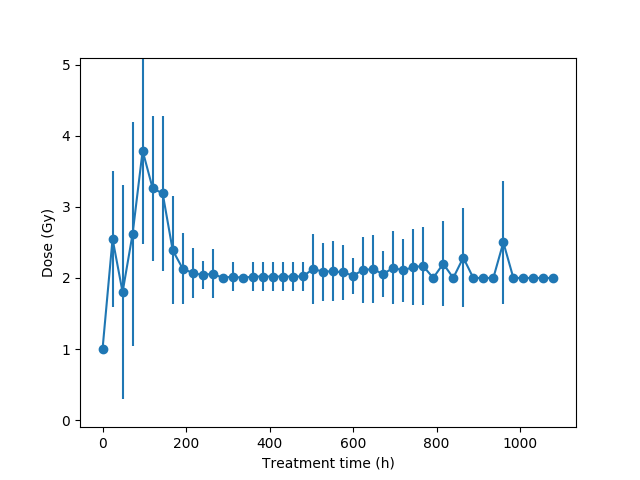
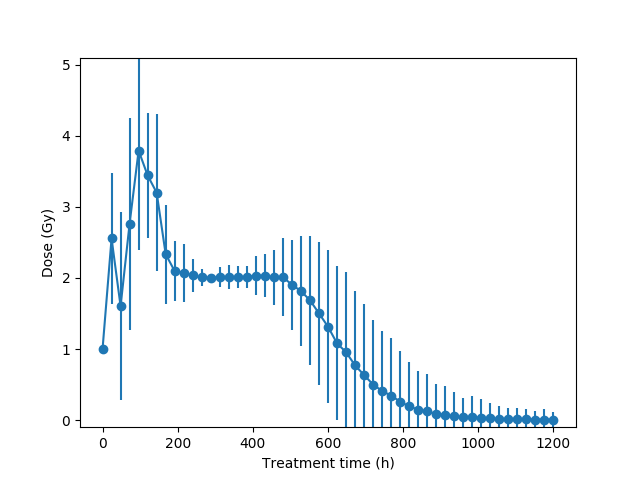
eval

Changed region(s): [[0.1562, 0.2188, 0.9062, 0.9375], [0.375, 0.9062, 0.4375, 0.9375], [0.25, 0.9062, 0.3125, 0.9375]]

diff --git a/treatment_var.py b/treatment_var.py
@@ -45,7 +45,7 @@ def treatment_var(means_data, err_data, steps, name):
 
 if __name__ == '__main__':
     reward = sys.argv[1]
-    means, std_errs, steps = read_csv_scalar('eval_' + reward + '_scalar')
+    means, std_errs, steps = read_csv_scalar('eval/eval_' + reward + '_scalar')
     treatment_var(means, std_errs, steps, reward + '_scalar')
     '''
     treats = np.load('eval/'+sys.argv[1]+'_treatments.npy')

diff --git a/model_cpp/scalar_model.cpp b/model_cpp/scalar_model.cpp
@@ -499,7 +499,7 @@ int main(int argc, char * argv[]){
     }
     //agent -> run(n_epochs, 5000, 10, 0.8, 0.05, 0.8, 0.01, 0.99);
     //agent -> test(5, true, 0.99, false);
-    agent -> test(500, false, 0.99, true);
+    agent -> test(5000, false, 0.99, true);
     agent -> treatment_var(1000);
     //agent -> save_Q(argv[6]);
     delete model;
